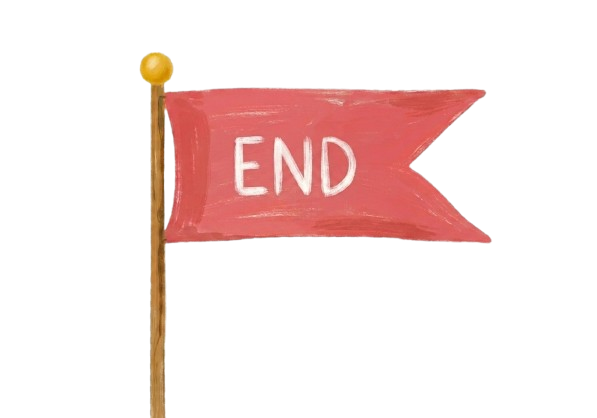
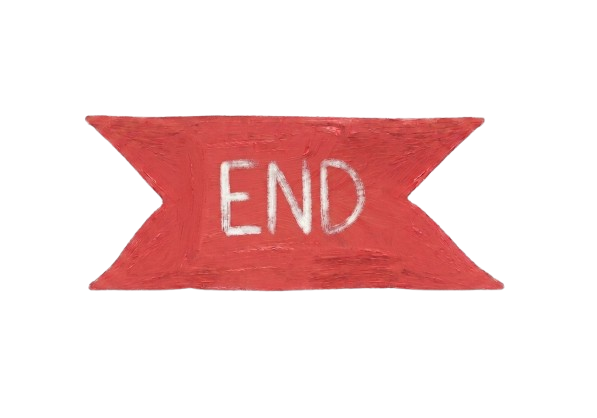
i think that i finished the visualizer part and start now the details, like the docstrings

Changed region(s): [[0.1206, 0.1244, 0.8442, 1.0]]

diff --git a/visualizer/visualizer.py b/visualizer/visualizer.py
@@ -10,14 +10,14 @@ class Visualizer:
         self.history = history
 
         self.height: int = 1000
-        self.width: int = 1020
+        self.width: int = 1000
         self.screen = None
         self.fly_in_status = False
-        self.current_turn: int = 0 
+        self.current_turn: int = 0
         self.CORES = {
-            "normal": (0, 255, 0),
-            "blocked": (255, 50, 50),
-            "restricted": (0, 0, 255),
+            "normal": (0, 176, 112),
+            "blocked": (193, 43, 59),
+            "restricted": (47, 72, 88),
             "priority": (255, 215, 0), 
             "start": (225, 182, 193),
             "end": (216, 191, 216),
@@ -40,13 +40,13 @@ class Visualizer:
         self.background = pygame.transform.scale(raw_bg, (self.width, self.height))
 
         raw_start = pygame.image.load(os.path.join(os.path.dirname(__file__), "start.png"))
-        self.start_img = pygame.transform.scale(raw_start, (90, 90))
+        self.start_img = pygame.transform.scale(raw_start, (120, 120))
 
         raw_end = pygame.image.load(os.path.join(os.path.dirname(__file__), "end.png"))
-        self.end_img = pygame.transform.scale(raw_end, (90, 90))
+        self.end_img = pygame.transform.scale(raw_end, (120, 120))
 
         raw_drone = pygame.image.load(os.path.join(os.path.dirname(__file__), "drone.png"))
-        self.drone_img = pygame.transform.scale(raw_drone, (20, 20))
+        self.drone_img = pygame.transform.scale(raw_drone, (80, 80))
 
     def limits_graph(self, ) -> None:
         self.all_x: list = []
@@ -60,7 +60,6 @@ class Visualizer:
         self.max_x = max(self.all_x)
         self.min_y = min(self.all_y)
         self.max_y = max(self.all_y)
-
 
     def _convert_coordinates(self, value_x, value_y) -> tuple:
 
@@ -79,10 +78,10 @@ class Visualizer:
 
     def _color_zone(self, zone: Zone):
         if zone == self.graph.start_zone:
-            return self.CORES["start"]
+            return self.CORES["normal"]
                 
         elif zone == self.graph.end_zone:
-            return self.CORES["end"]
+            return self.CORES["normal"]
         
         elif zone.type_zone == Type_zone.normal:
             return self.CORES["normal"]
@@ -95,23 +94,55 @@ class Visualizer:
                 
         elif zone.type_zone == Type_zone.priority:
             return self.CORES["priority"]
+        return (200, 200, 200)
 
     def _parse_history(self) -> dict[int, dict[str, str]]:
         turns: dict = {}
+
+        all_drones_ids = set()
+        for line in self.history:
+            for movement in line.split(" "):
+                parts = movement.split("-")
+                all_drones_ids.add(parts[0])
+
+        turns[0] = {drone_id: self.graph.start_zone.name for drone_id in all_drones_ids}
+
         for turn_idx, line in enumerate(self.history):
-            turns[turn_idx] = {}
+            turns[turn_idx + 1] = {}
             for movement in line.split(" "):
                 parts = movement.split("-")
                 drone_id = parts[0]
                 zone_name = parts[-1]
-                turns[turn_idx][drone_id] = zone_name
+                turns[turn_idx + 1][drone_id] = zone_name
         return turns
+
+    def _draw_legend(self) -> None:
+        legend_items = [
+            ("Normal zone", self.CORES["normal"]),
+            ("Blocked zone", self.CORES["blocked"]),
+            ("Restricted zone", self.CORES["restricted"]),
+            ("Priority zone", self.CORES["priority"]),
+        ]
+        font = pygame.font.SysFont("Arial", 16)
+        x = self.width - 200
+        y = 20
+        square_size = 16
+        padding = 8
+
+        for label, color in legend_items:
+            pygame.draw.rect(self.screen, color, (x, y, square_size, square_size))
+            text = font.render(label, True, (50, 50, 50))
+            self.screen.blit(text, (x + square_size + 6, y))
+            y += square_size + padding
+        return y
 
     def rotate_pygame(self):
         self.start_pygame()
         self.limits_graph()
         clock = pygame.time.Clock()
         drone_positions = self._parse_history()
+        mode = "paused"
+
         while self.fly_in_status:
             self.screen.blit(self.background, (0, 0))
 
@@ -134,13 +165,13 @@ class Visualizer:
 
                 if zone == self.graph.start_zone:
                     img_x = max(0, pixel_position[0] - self.start_img.get_width() // 2)
-                    img_y = max(0, pixel_position[1] - self.start_img.get_height())
+                    img_y = max(0, pixel_position[1] - self.start_img.get_height() // 2)
                     self.screen.blit(self.start_img, (img_x, img_y))
                 
 
                 elif zone == self.graph.end_zone:
                     img_x = pixel_position[0] - self.end_img.get_width() // 2
-                    img_y = pixel_position[1] - self.end_img.get_height()
+                    img_y = pixel_position[1] - self.end_img.get_height() // 2
 
                     img_x = max(0, min(img_x, self.width - self.end_img.get_width()))
                     img_y = max(0, img_y)
@@ -152,23 +183,69 @@ class Visualizer:
                     pygame.draw.circle(self.screen, zone_color, pixel_position, zone_radius)
             
             if self.current_turn < len(drone_positions):
+                font = pygame.font.SysFont("Arial", 15)
                 for drone_id, zone_name in drone_positions[self.current_turn].items():
                     zone = self.graph.zone_dict.get(zone_name)
                     if zone:
                         pixel_position = self._convert_coordinates(zone.coordinates[0], zone.coordinates[1])
-                    self.screen.blit(self.drone_img, (pixel_position[0] - self.drone_img.get_width() // 2, pixel_position[1] - self.drone_img.get_height() // 2))
+                        self.screen.blit(self.drone_img, (pixel_position[0] - self.drone_img.get_width() // 2, pixel_position[1] - self.drone_img.get_height() // 2))
+                        text = font.render(drone_id, True, (0, 0, 0))
+                        self.screen.blit(text, (pixel_position[0] - text.get_width() // 2, pixel_position[1] + self.drone_img.get_height() // 2))
 
-            clock.tick(2)
-            self.current_turn += 1
-            if self.current_turn >= len(self.history):
-                self.current_turn = 0
-
+            font_mode = pygame.font.SysFont("Arial", 16)
+            if mode == "paused":
+                msg = [
+                        "SPACE: to start",
+                        "M: manual",
+                        "A: auto"
+                ]
+            elif mode == "manual":
+                msg = [
+                    f"MANUAL — Turn {self.current_turn}",
+                    "M: next turn",
+                    "A: auto"
+                ]
+            else:
+                msg = [
+                    f"AUTO — Turn {self.current_turn}",
+                    "SPACE: pause",
+                    "M: manual"
+                ]
             
+            y_after_legend = self._draw_legend()
+            x_mode = self.width - 200
+            y_mode = y_after_legend + 10
+            line_spacing = 24
+
+            for line in msg:
+                text_mode = font_mode.render(line, True, (50, 50, 50))
+                self.screen.blit(text_mode, (x_mode, y_mode))
+                y_mode += line_spacing
+
+            self._draw_legend()
+
+            advance_one = False
             for event in pygame.event.get():
                 if event.type == pygame.QUIT:
                     self.fly_in_status = False
+                elif event.type == pygame.KEYDOWN:
+                    if event.key == pygame.K_SPACE:
+                        mode = "paused" if mode == "auto" else "auto"
+                    elif event.key == pygame.K_m:
+                        mode = "manual"
+                        advance_one = True
+                    elif event.key == pygame.K_a:
+                        mode = "auto"
+
+            if mode == "auto":
+                clock.tick(2)
+                self.current_turn += 1
+                if self.current_turn >= len(self.history):
+                    self.current_turn = 0
+            elif mode == "manual" and advance_one:
+                self.current_turn += 1
+                if self.current_turn >= len(self.history):
+                    self.current_turn = 0
 
             pygame.display.flip()
-                
-
         pygame.quit()

diff --git a/srcs/base.py b/srcs/base.py
@@ -3,15 +3,19 @@ from abc import ABC, abstractmethod
 
 
 class Base(ABC):
+    """Abstract base class for objects that can hold drones with capacity limits."""
 
     @abstractmethod
     def has_capacity(self) -> bool:
+        """Check if this object accepts more drones."""
         pass
 
     @abstractmethod
     def add_drone(self, drone_actual: Drone) -> bool:
+        """Add a drone to this object if capacity allows."""
         pass
 
     @abstractmethod
     def remove_drone(self, drone_actual: Drone) -> bool:
+        """Remove a drone from this object."""
         pass
